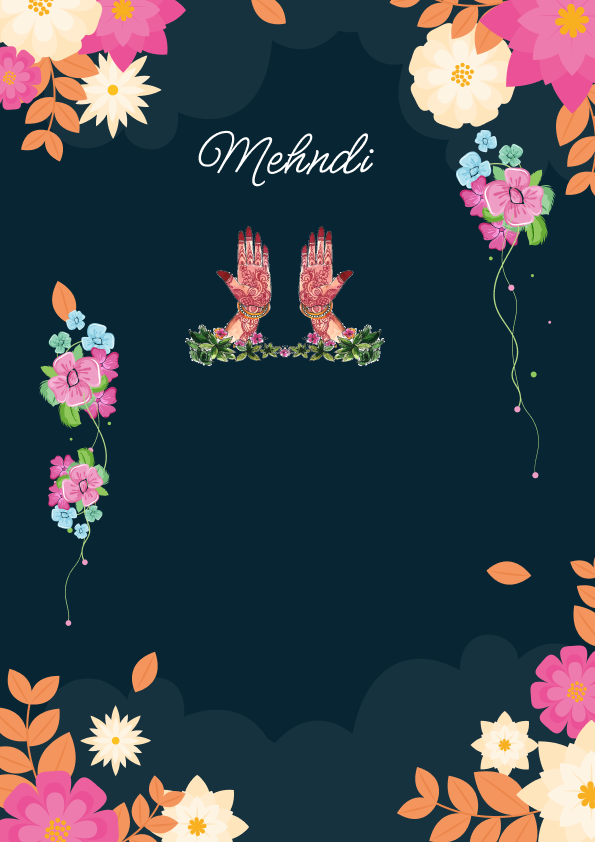
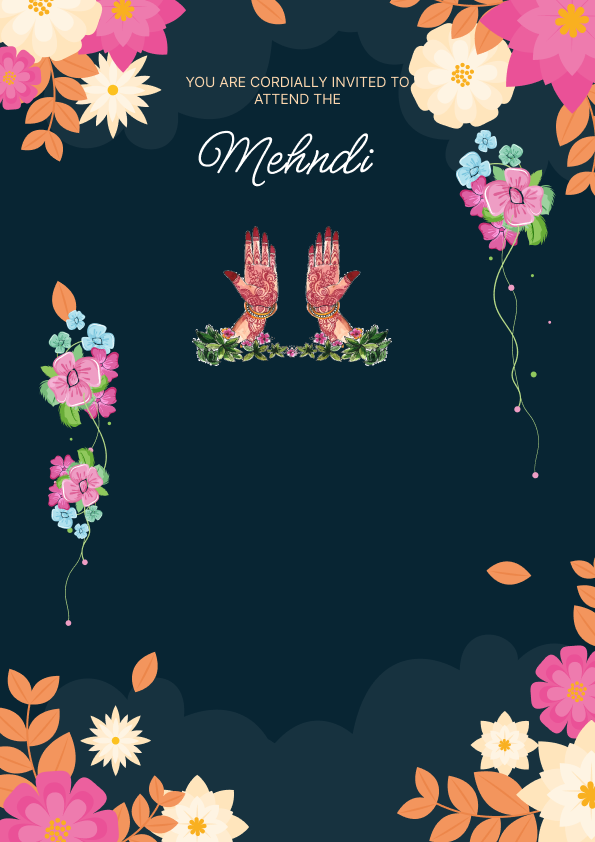
Changes to be committed: 	modified:   images/ivt_ds1-3.png 	new file:   images/ivt_ds1-4.png 	new file:   images/ivt_ds1-5.png 	new file:   images/ivt_ds1-6.png 	new file:   images/ivt_ds1-7.png 	modified:   ivt_ds1.html

Changed region(s): [[0.3025, 0.247, 0.6655, 0.4323], [0.3328, 0.0926, 0.6655, 0.1235]]

diff --git a/ivt_ds1.html b/ivt_ds1.html
@@ -86,7 +86,26 @@
                 color: var(--secondary-color);
             }
 
+            .content-1,
+            .content-2 {
+                top: 27%;
+            }
+
+            .content-3 {
+                top: 30%;
+            }
+
             @media (min-width:1025px) {
+
+                .content,
+                .content-1 {
+                    top: 15%;
+                }
+
+                .content-2,
+                .content-3 {
+                    top: 20%;
+                }
 
                 .invite-line,
                 .on-box {
@@ -139,13 +158,109 @@
             <br>
             <div class="outer-box">
                 <img src="./images/ivt_ds1-3.png" alt="" class="main-image">
-                <div class="content">
-                    <div class="invite-line">You are cordially <br> invited to attend the</div>
-                    <div class="brd-grm-name">
-                        <div class="groom-name">Aman</div>
+                <div class="content content-1">
+                    <div class="brd-grm-name" style="margin-top:50%">
+                        <div class="groom-name" style="font-size: x-large;">Aman</div>
+                    </div>
+                    <div class="date-time">
+                        <div class="on-box">on</div>
+                        <div class="date">
+                            <div style="margin-bottom: 12px">friday</div>
+                            <div style="color:var(--third-color);">jan 15 2023</div>
+                        </div>
+                        <div class="time">At 4pm</div>
+                    </div>
+                    <div class="venue-block">
+                        <div style="margin-bottom: 10px;">Venue</div>
+                        <div class="address">123, Street name, city name, street, country, 12345</div>
                     </div>
                 </div>
             </div>
+            <br>
+            <div class="outer-box" style="justify-content: flex-start;">
+                <img src="./images/ivt_ds1-4.png" alt="" class="main-image">
+                <div class="content content-2" style="width: 50%;">
+                    <div class="brd-grm-name" style="margin-top:10%;">
+                        <div class="groom-name">Aman</div>
+                    </div>
+                    <div class="date-time">
+                        <div class="on-box">on</div>
+                        <div class="date">
+                            <div style="margin-bottom: 12px">friday</div>
+                            <div style="color:var(--third-color);">jan 15 2023</div>
+                        </div>
+                        <div class="time">At 4pm</div>
+                    </div>
+                    <div class="venue-block">
+                        <div style="margin-bottom: 10px;">Venue</div>
+                        <div class="address">123, Street name, city name, street, country, 12345</div>
+                    </div>
+                </div>
+            </div>
+            <br>
+            <div class="outer-box">
+                <img src="./images/ivt_ds1-5.png" alt="" class="main-image">
+                <div class="content content-1">
+                    <div class="brd-grm-name" style="margin-top:50%">
+                        <div class="groom-name" style="font-size: x-large;">Aman</div>
+                    </div>
+                    <div class="date-time">
+                        <div class="on-box">on</div>
+                        <div class="date">
+                            <div style="margin-bottom: 12px">friday</div>
+                            <div style="color:var(--third-color);">jan 15 2023</div>
+                        </div>
+                        <div class="time">At 4pm</div>
+                    </div>
+                    <div class="venue-block">
+                        <div style="margin-bottom: 10px;">Venue</div>
+                        <div class="address">123, Street name, city name, street, country, 12345</div>
+                    </div>
+                </div>
+            </div>
+            <br>
+            <div class="outer-box">
+                <img src="./images/ivt_ds1-6.png" alt="" class="main-image">
+                <div class="content content-1">
+                    <div class="brd-grm-name" style="margin-top:50%">
+                        <div class="groom-name" style="font-size: x-large;">Aman</div>
+                    </div>
+                    <div class="date-time">
+                        <div class="on-box">on</div>
+                        <div class="date">
+                            <div style="margin-bottom: 12px">friday</div>
+                            <div style="color:var(--third-color);">jan 15 2023</div>
+                        </div>
+                        <div class="time">At 4pm</div>
+                    </div>
+                    <div class="venue-block">
+                        <div style="margin-bottom: 10px;">Venue</div>
+                        <div class="address">123, Street name, city name, street, country, 12345</div>
+                    </div>
+                </div>
+            </div>
+            <br>
+            <div class="outer-box">
+                <img src="./images/ivt_ds1-7.png" alt="" class="main-image">
+                <div class="content content-3">
+                    <div class="brd-grm-name" style="margin-top:50%">
+                        <div class="groom-name" style="font-size: x-large;">Aman</div>
+                    </div>
+                    <div class="date-time">
+                        <div class="on-box">on</div>
+                        <div class="date">
+                            <div style="margin-bottom: 12px">friday</div>
+                            <div style="color:var(--third-color);">jan 15 2023</div>
+                        </div>
+                        <div class="time">At 4pm</div>
+                    </div>
+                    <div class="venue-block">
+                        <div style="margin-bottom: 10px;">Venue</div>
+                        <div class="address">123, Street name, city name, street, country, 12345</div>
+                    </div>
+                </div>
+            </div>
+            <br>
         </div>
     </body>
 
